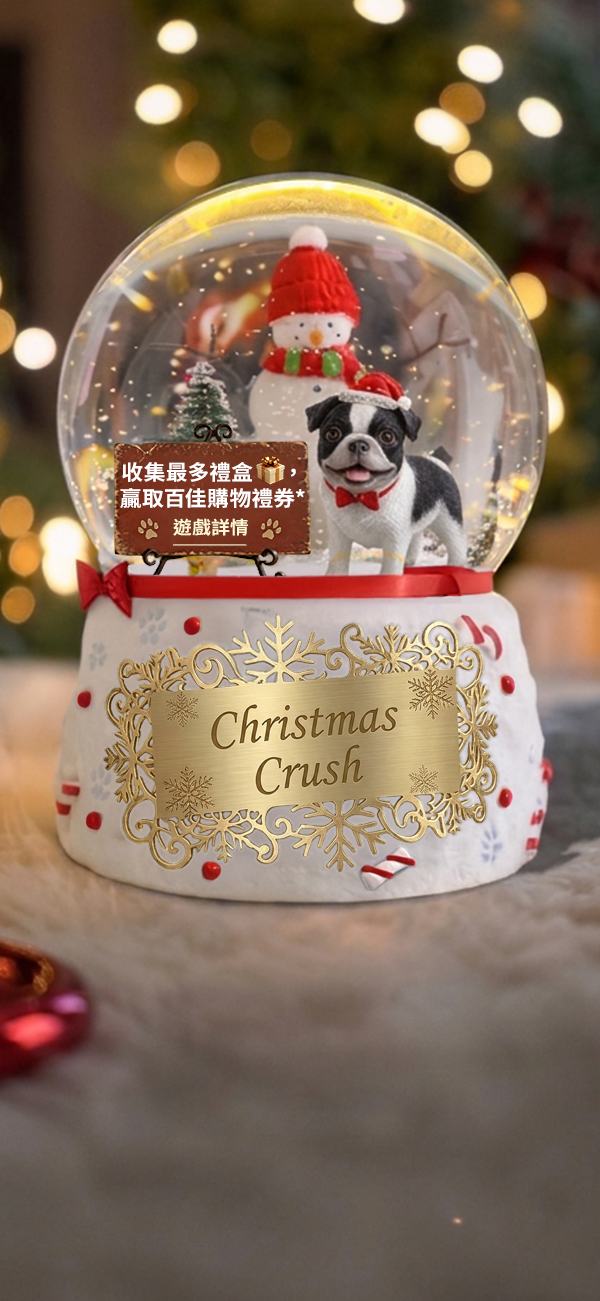
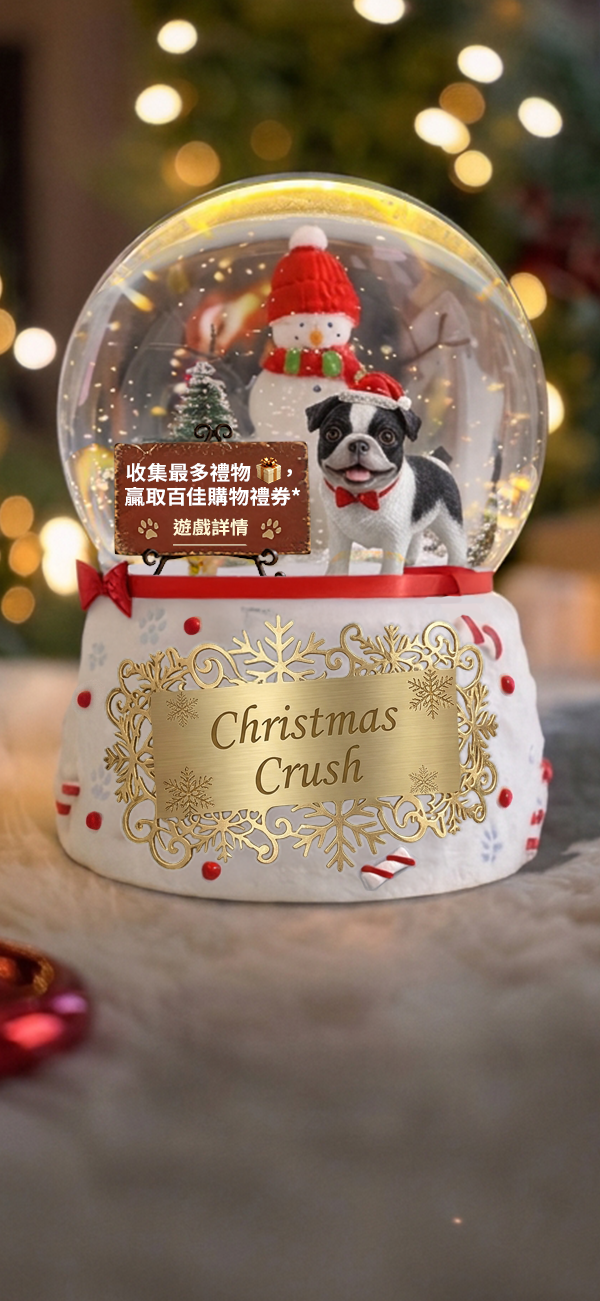
Start the game period on 26 Nov and match the How to Play rules and Traditional Chinese cover to the latest copy.

Changed region(s): [[0.18, 0.3382, 0.51, 0.3997]]

diff --git a/src/i18n/LanguageProvider.tsx b/src/i18n/LanguageProvider.tsx
@@ -22,11 +22,11 @@ const messages = {
     detailsGift: "Gift Box",
     detailsAfter: " to win Park’n Shop Voucher",
     detailsPeriodLabel: "Game period:",
-    detailsPeriod: "23 Nov to 20 Dec 2026",
+    detailsPeriod: "26 Nov to 20 Dec 2026",
     terms: "Terms and conditions apply.",
     termsUrl: "https://web.three.com.hk/tnc/261123/tnc-xmas-crush-en.pdf",
     xmasSpecial: "Xmas Special",
-    xmasSpecialBody: "Special Xmas Gift boxes will appear randomly. Grab the most Gift boxes will win exclusive rewards!",
+    xmasSpecialBody: "Special Xmas Gift boxes will appear randomly. Grab the most Gift boxes will win rewards!",
     checkInTitle: "Daily Check-in Bonus",
     checkInBodyBefore: "Check in for 3 consecutive days to receive ",
     checkInBodyEm: "30 extra Gift boxes.",
@@ -63,17 +63,17 @@ const messages = {
     detailsGift: "禮物盒",
     detailsAfter: "，贏取百佳購物禮券",
     detailsPeriodLabel: "活動期間：",
-    detailsPeriod: "2026年11月23日至12月20日",
+    detailsPeriod: "2026年11月26日至12月20日",
     terms: "受條款及細則約束。",
     termsUrl: "https://web.three.com.hk/tnc/261123/tnc-xmas-crush-tc.pdf",
     xmasSpecial: "聖誕特別獎",
-    xmasSpecialBody: "特別聖誕禮物盒會隨機出現。收集最多禮物盒，即可贏取獨家獎賞！",
+    xmasSpecialBody: "特別聖誕禮物盒會隨機出現。收集最多禮物盒，即可贏取獎賞！",
     checkInTitle: "每日簽到獎賞",
     checkInBodyBefore: "連續簽到 3 天，可額外獲得",
     checkInBodyEm: " 30 個禮物盒。",
     rulesTitle: "遊戲規則",
-    rulesMatch: "連消 3 個或以上相同圖案，即可消除並得分！",
-    rulesTime: "消除圖案可補充下方的計時。時間結束後，遊戲便會完結。",
+    rulesMatch: "連線 3 個或以上相同圖案即可消除得分！",
+    rulesTime: "每次消除都能延長倒數時間，時間歸零即結束遊戲。",
     checkInLeft2: "再簽到 2 次即可獲得",
     checkInLeft1: "再簽到 1 次即可獲得",
     checkInDone: "已獲得額外 30 個禮物盒，祝你玩得開心！",
